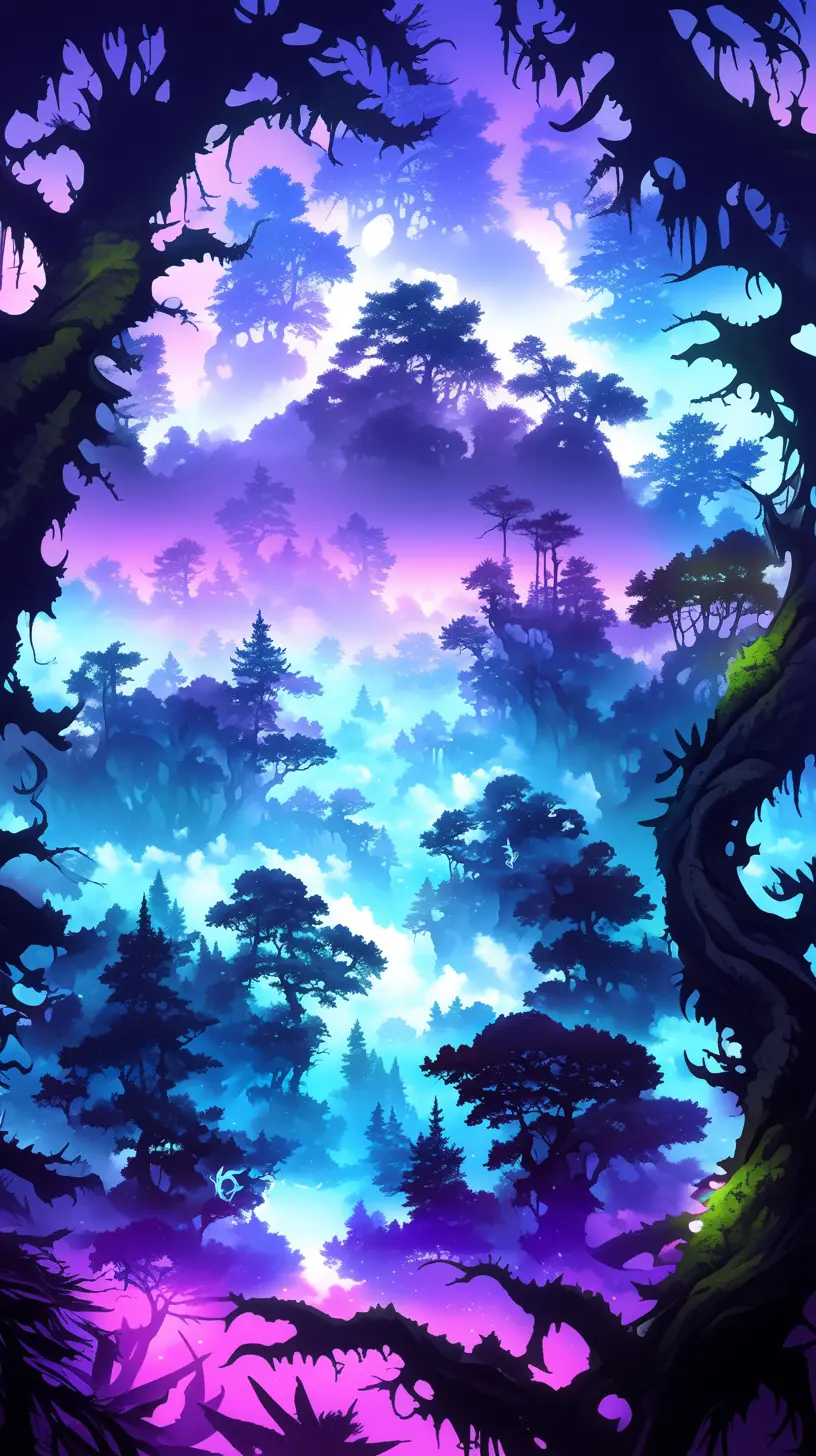
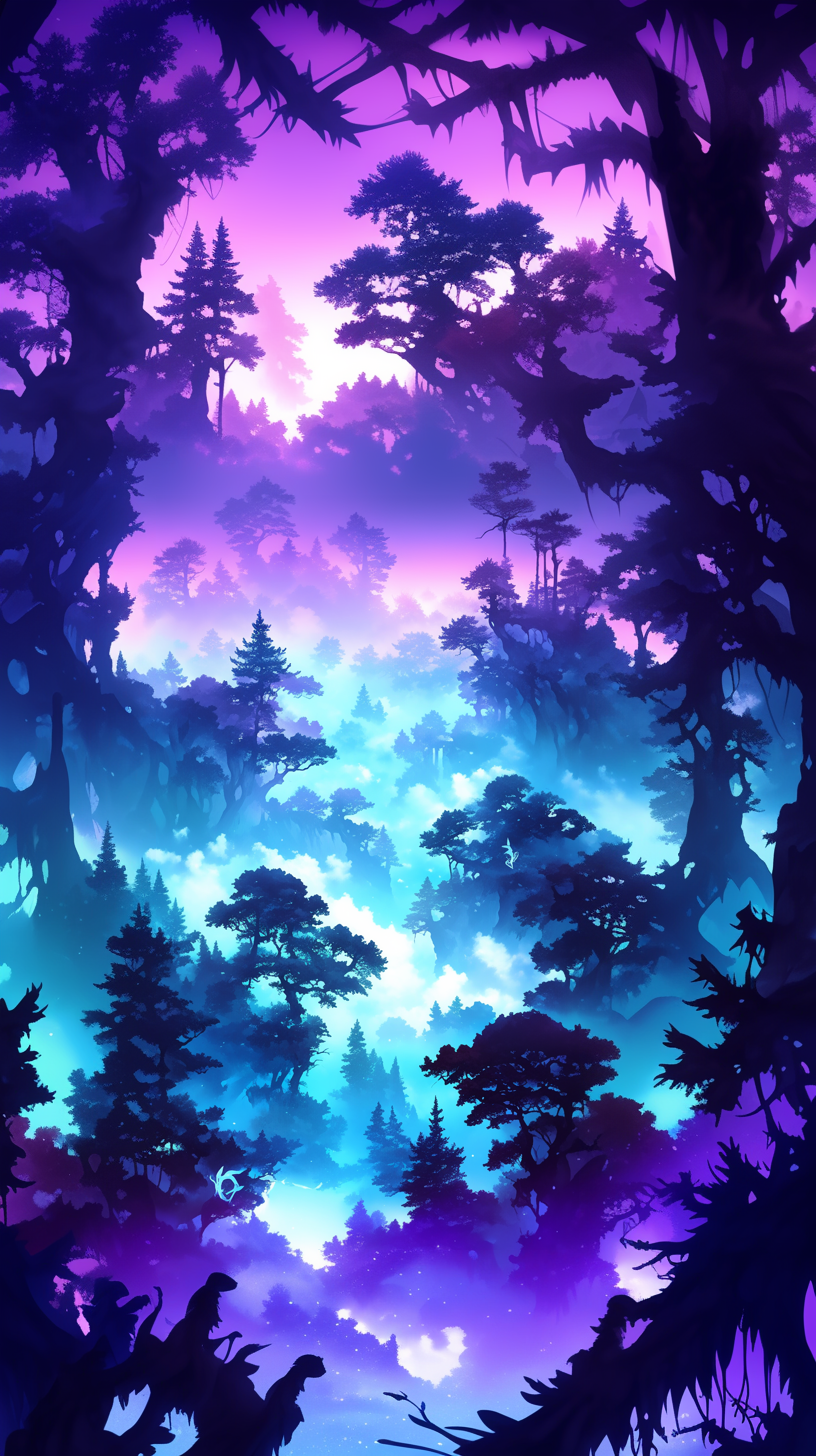
feat: improve animations and transitions

diff --git a/src/assets/stories/kronar-el-susurro-del-tiempo-roto/metadata.js b/src/assets/stories/kronar-el-susurro-del-tiempo-roto/metadata.js
@@ -1,74 +1,78 @@
+import defocus from '../../presets/animations/defocus'
 import focus from '../../presets/animations/focus'
-import giantSteps from '../../presets/animations/giantSteps'
 
 export default {
-  '01': { ...giantSteps },
-  '02': {
-    ...focus({ grid: 3, time: 20 })
+  '01': {
+    transition: 'fade-in'
   },
-  '03': { image: '01' },
+  '02': {
+    image:'01',
+    ...focus({ grid: 8, time: 3 }),
+    transition: 'fade-in'
+  },
+  '03': { image: '01', ...defocus({ grid: 8, time: 3 }) },
   '04': { image: '01' },
   '05': { image: '01' },
   '06': { image: '01' },
   '07': { image: '01' },
   '08': { image: '01' },
   '09': { image: '01' },
-  '10': { image: '01' },
-  '11': { image: '01' },
-  '12': { image: '01' },
-  '13': { image: '01' },
-  '14': { image: '01' },
-  '15': { image: '01' },
-  '16': { image: '01' },
-  '17': { image: '01' },
-  '18': { image: '01' },
-  '19': { image: '01' },
-  '20': { image: '01' },
-  '21': { image: '01' },
-  '22': { image: '01' },
-  '23': { image: '01' },
-  '24': { image: '01' },
-  '25': { image: '01' },
-  '26': { image: '01' },
-  '27': { image: '01' },
-  '28': { image: '01' },
-  '29': { image: '01' },
-  '30': { image: '01' },
-  '32': { image: '01' },
-  '33': { image: '01' },
-  '34': { image: '01' },
-  '35': { image: '01' },
-  '36': { image: '01' },
-  '37': { image: '01' },
-  '38': { image: '01' },
-  '39': { image: '01' },
-  '40': { image: '01' },
-  '42': { image: '01' },
-  '43': { image: '01' },
-  '44': { image: '01' },
-  '45': { image: '01' },
-  '46': { image: '01' },
-  '47': { image: '01' },
-  '48': { image: '01' },
-  '49': { image: '01' },
-  '50': { image: '01' },
-  '52': { image: '01' },
-  '53': { image: '01' },
-  '54': { image: '01' },
-  '55': { image: '01' },
-  '56': { image: '01' },
-  '57': { image: '01' },
-  '58': { image: '01' },
-  '59': { image: '01' },
-  '60': { image: '01' },
-  '62': { image: '01' },
-  '63': { image: '01' },
-  '64': { image: '01' },
-  '65': { image: '01' },
-  '66': { image: '01' },
-  '67': { image: '01' },
-  '68': { image: '01' },
-  '69': { image: '01' },
-  '70': { image: '01' },
-  '72': { image: '01' }
+  10: { image: '01' },
+  11: { image: '01' },
+  12: { image: '01' },
+  13: { image: '01' },
+  14: { image: '01' },
+  15: { image: '01' },
+  16: { image: '01' },
+  17: { image: '01' },
+  18: { image: '01' },
+  19: { image: '01' },
+  20: { image: '01' },
+  21: { image: '01' },
+  22: { image: '01' },
+  23: { image: '01' },
+  24: { image: '01' },
+  25: { image: '01' },
+  26: { image: '01' },
+  27: { image: '01' },
+  28: { image: '01' },
+  29: { image: '01' },
+  30: { image: '01' },
+  32: { image: '01' },
+  33: { image: '01' },
+  34: { image: '01' },
+  35: { image: '01' },
+  36: { image: '01' },
+  37: { image: '01' },
+  38: { image: '01' },
+  39: { image: '01' },
+  40: { image: '01' },
+  42: { image: '01' },
+  43: { image: '01' },
+  44: { image: '01' },
+  45: { image: '01' },
+  46: { image: '01' },
+  47: { image: '01' },
+  48: { image: '01' },
+  49: { image: '01' },
+  50: { image: '01' },
+  52: { image: '01' },
+  53: { image: '01' },
+  54: { image: '01' },
+  55: { image: '01' },
+  56: { image: '01' },
+  57: { image: '01' },
+  58: { image: '01' },
+  59: { image: '01' },
+  60: { image: '01' },
+  62: { image: '01' },
+  63: { image: '01' },
+  64: { image: '01' },
+  65: { image: '01' },
+  66: { image: '01' },
+  67: { image: '01' },
+  68: { image: '01' },
+  69: { image: '01' },
+  70: { image: '01' },
+  72: { image: '01' }
 }

diff --git a/src/views/Stories/Story.vue b/src/views/Stories/Story.vue
@@ -21,12 +21,14 @@
           :class="{
             'active-phrase': currentPhrase === i,
             'next-phrase': currentPhrase + 1 === i,
-            'slide-in-left': currentPhrase === i && transitioning
+            [precalculatedMetadata[i].transition || 'slide-in-left']:
+              currentPhrase === i && transitioning
           }"
         >
           <div
             class="story-image"
-            :class="`${currentPhrase === i ? precalculatedMetadata[i]?.class: ''} grid-${currentPhrase === i ? precalculatedMetadata[i]?.grid : ''}`"
+            :class="`${currentPhrase === i || currentPhrase === i + 1 ? precalculatedMetadata[i]?.class : ''}
+            grid-${currentPhrase === i || currentPhrase === i + 1 ? precalculatedMetadata[i]?.grid : ''}`"
             :style="precalculatedMetadata[i]?.style"
           >
             <img
@@ -119,7 +121,7 @@
       setTimeout(() => {
         currentPhrase.value++
         transitioning.value = false
-      }, 300)
+      }, 1000)
     }
   }
 
@@ -154,7 +156,7 @@
   }
 
   .story {
-    --transition-time: 0.3s;
+    --transition-duration: .5s;
     color: white;
     width: 100vw;
     height: 100vh;
@@ -268,7 +270,6 @@
 
   .active-phrase {
     z-index: 2;
-    opacity: 1;
   }
 
   .next-phrase {

diff --git a/src/assets/presets/animations/helper.grid.js b/src/assets/presets/animations/helper.grid.js
@@ -1,0 +1,40 @@
+export default (grid) => {
+  switch(grid) {
+    case 1:
+      return {
+        'transform-origin': 'top left'
+      }
+    case 2:
+      return {
+        'transform-origin': 'top center'
+      }
+    case 3:
+      return {
+        'transform-origin': 'top right'
+      }
+    case 4:
+      return {
+        'transform-origin': 'center left'
+      }
+    case 5:
+      return {
+        'transform-origin': 'center center'
+      }
+    case 6:
+      return {
+        'transform-origin': 'center right'
+      }
+    case 7:
+      return {
+        'transform-origin': 'bottom left'
+      }
+    case 8:
+      return {
+        'transform-origin': 'bottom center'
+      }
+    case 9:
+      return {
+        'transform-origin': 'bottom right'
+      }
+  }
+}

diff --git a/src/assets/presets/animations/defocus.js b/src/assets/presets/animations/defocus.js
@@ -1,10 +1,10 @@
 import getGrid from './helper.grid'
-
 export default ({ grid = 5, time = 10 }) => ({
   style: {
     'animation-duration': `${time}s`,
     'animation-fill-mode': 'forwards',
+    'transform': 'scale(1.7)',
     ...getGrid(grid)
   },
-  class: 'zoom-in'
+  class: 'zoom-out'
 })

diff --git a/src/assets/css/transitions/fadeIn.css b/src/assets/css/transitions/fadeIn.css
@@ -1,13 +1,13 @@
 .fade-in {
-  animation: fadeIn var(--transition-duration) ease-in-out;
+  animation: fadeIn var(--transition-duration) linear forwards;
 }
 
 @keyframes fadeIn {
   from {
-    opacity: 0;
+    opacity: 1;
   }
 
   to {
-    opacity: 1;
+    opacity: 0;
   }
 }

diff --git a/src/assets/css/animations/zoom-out.css b/src/assets/css/animations/zoom-out.css
@@ -1,0 +1,18 @@
+.zoom-out {
+  animation: zoomOut var(--animation-duration) linear;
+  transform: scale(1.7);
+}
+
+@keyframes zoomOut {
+  0% {
+    transform: scale(1.7);
+  }
+
+  50% {
+    transform: scale(1.5);
+  }
+
+  100% {
+    transform: scale(1);
+  }
+}

diff --git a/src/assets/css/animations/index.css b/src/assets/css/animations/index.css
@@ -4,8 +4,8 @@
 @import url('./shake.css');
 @import url('./pulse.css');
 @import url('./wobble.css');
+@import url('./zoom-out.css');
 
-@import url('./_helper.css');
 
 :root {
   --animation-duration: 3s;

diff --git a/src/assets/css/transitions/index.css b/src/assets/css/transitions/index.css
@@ -2,5 +2,5 @@
 @import url('./slideInLeft.css');
 
 :root {
-  --transition-duration: 0.1s;
+  --transition-duration: 0.3s;
 }
